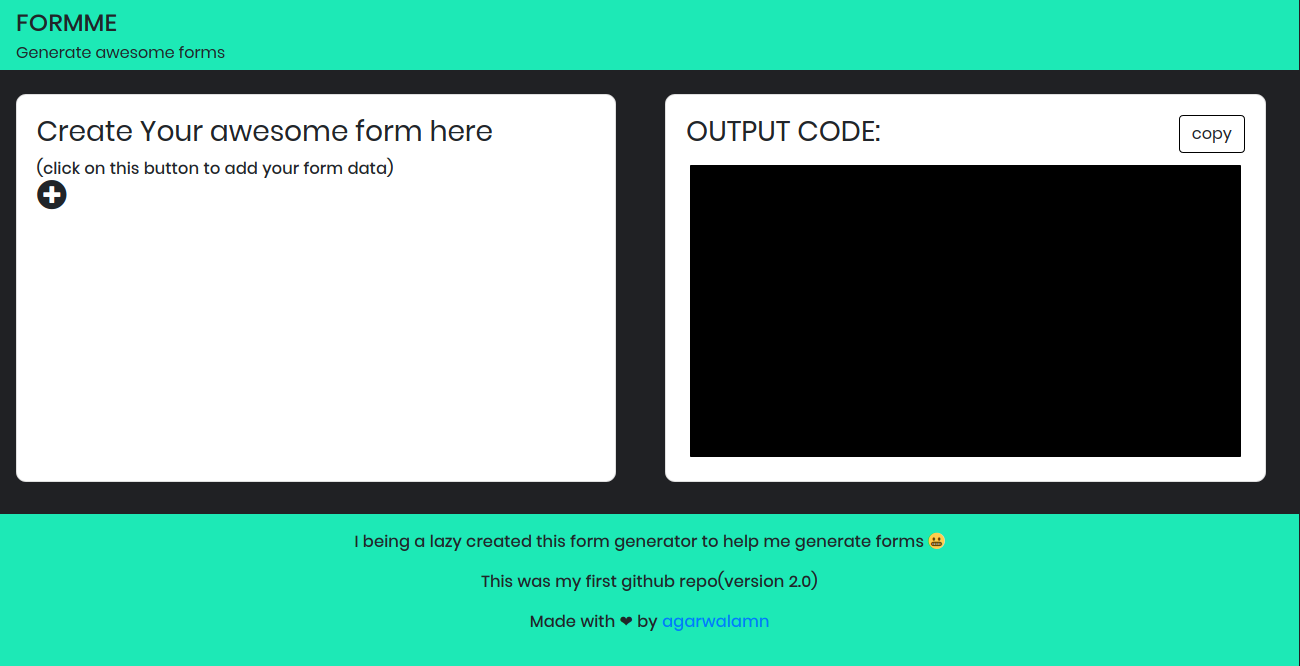
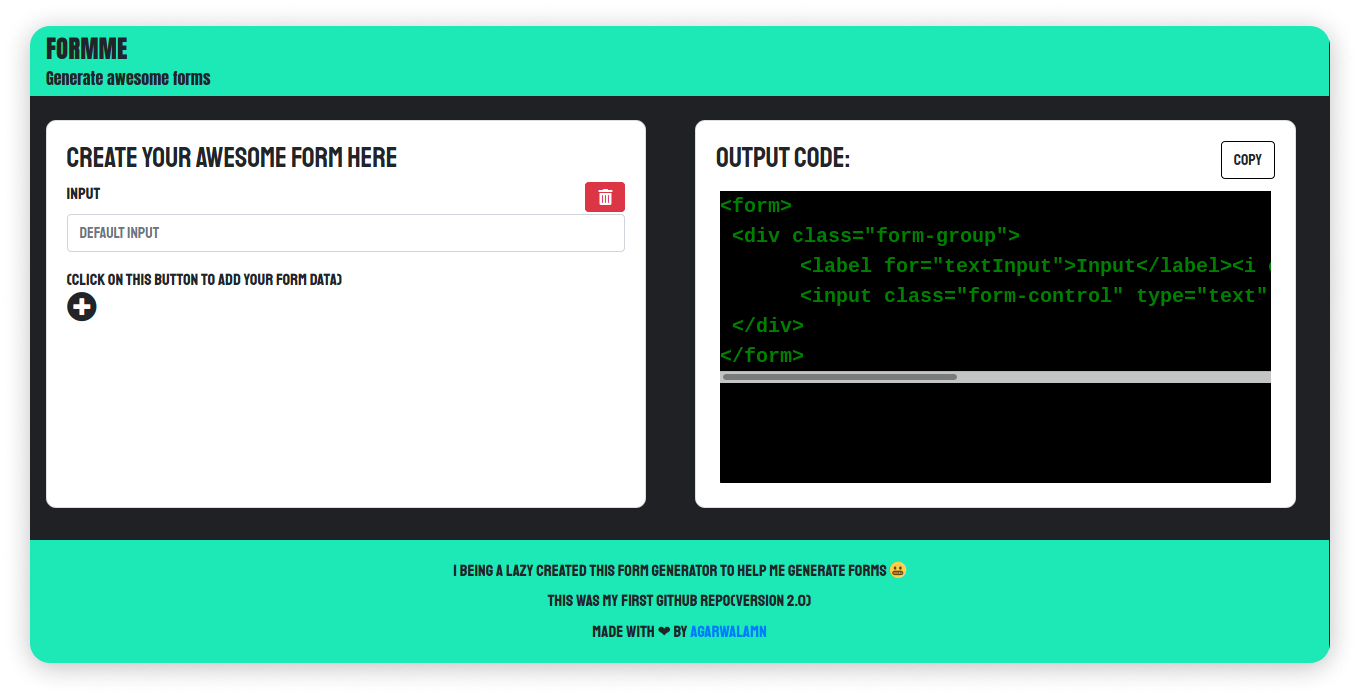
some final touches🤡

Changed region(s): [[0.0, 0.0, 1.0, 1.0], [0.4308, 0.2402, 0.4615, 0.3303]]

diff --git a/index.html b/index.html
@@ -8,7 +8,7 @@
         <link rel="stylesheet" href="https://stackpath.bootstrapcdn.com/bootstrap/4.3.1/css/bootstrap.min.css" integrity="sha384-ggOyR0iXCbMQv3Xipma34MD+dH/1fQ784/j6cY/iJTQUOhcWr7x9JvoRxT2MZw1T" crossorigin="anonymous">
         <link rel="stylesheet" href="https://use.fontawesome.com/releases/v5.7.2/css/all.css" integrity="sha384-fnmOCqbTlWIlj8LyTjo7mOUStjsKC4pOpQbqyi7RrhN7udi9RwhKkMHpvLbHG9Sr" crossorigin="anonymous">
         <link rel="stylesheet" type="text/css" href="style.css">
-        <link href="https://fonts.googleapis.com/css2?family=Poppins&display=swap" rel="stylesheet"> 
+        <link href="https://fonts.googleapis.com/css2?family=Anton&family=Staatliches&display=swap" rel="stylesheet">  
     </head>
     <body style="width: 100%; height: 100%; overflow-x: hidden; background:#202124;">   
         <div class="heading">
@@ -21,7 +21,7 @@
     	<div class="col-sm-6 " >
     		<div class="adc card">
     		<div class="addButton">
-    			<h3>Create Your awesome form here</h3>
+    			<h3>Create your awesome form here</h3>
     			<div class="outputForm" id="out">
     				<form></form>
     			</div>

diff --git a/style.css b/style.css
@@ -1,7 +1,7 @@
 html,body{
         padding: 0;
         margin:0;
-        font-family: 'Poppins', sans-serif;
+        font-family: 'Staatliches', cursive;
 }
 .addButton{
         cursor: pointer;
@@ -72,10 +72,14 @@ html,body{
         padding: 1em;
         font-weight: bold;
 }
+.footer p{
+        margin: 0;
+        padding: 0.2em;
+}
 .heading{
         background-color: #1de9b6;
         padding: 0.3em;
-
+        font-family: 'Anton';
         padding-left: 1em;
 
 }
